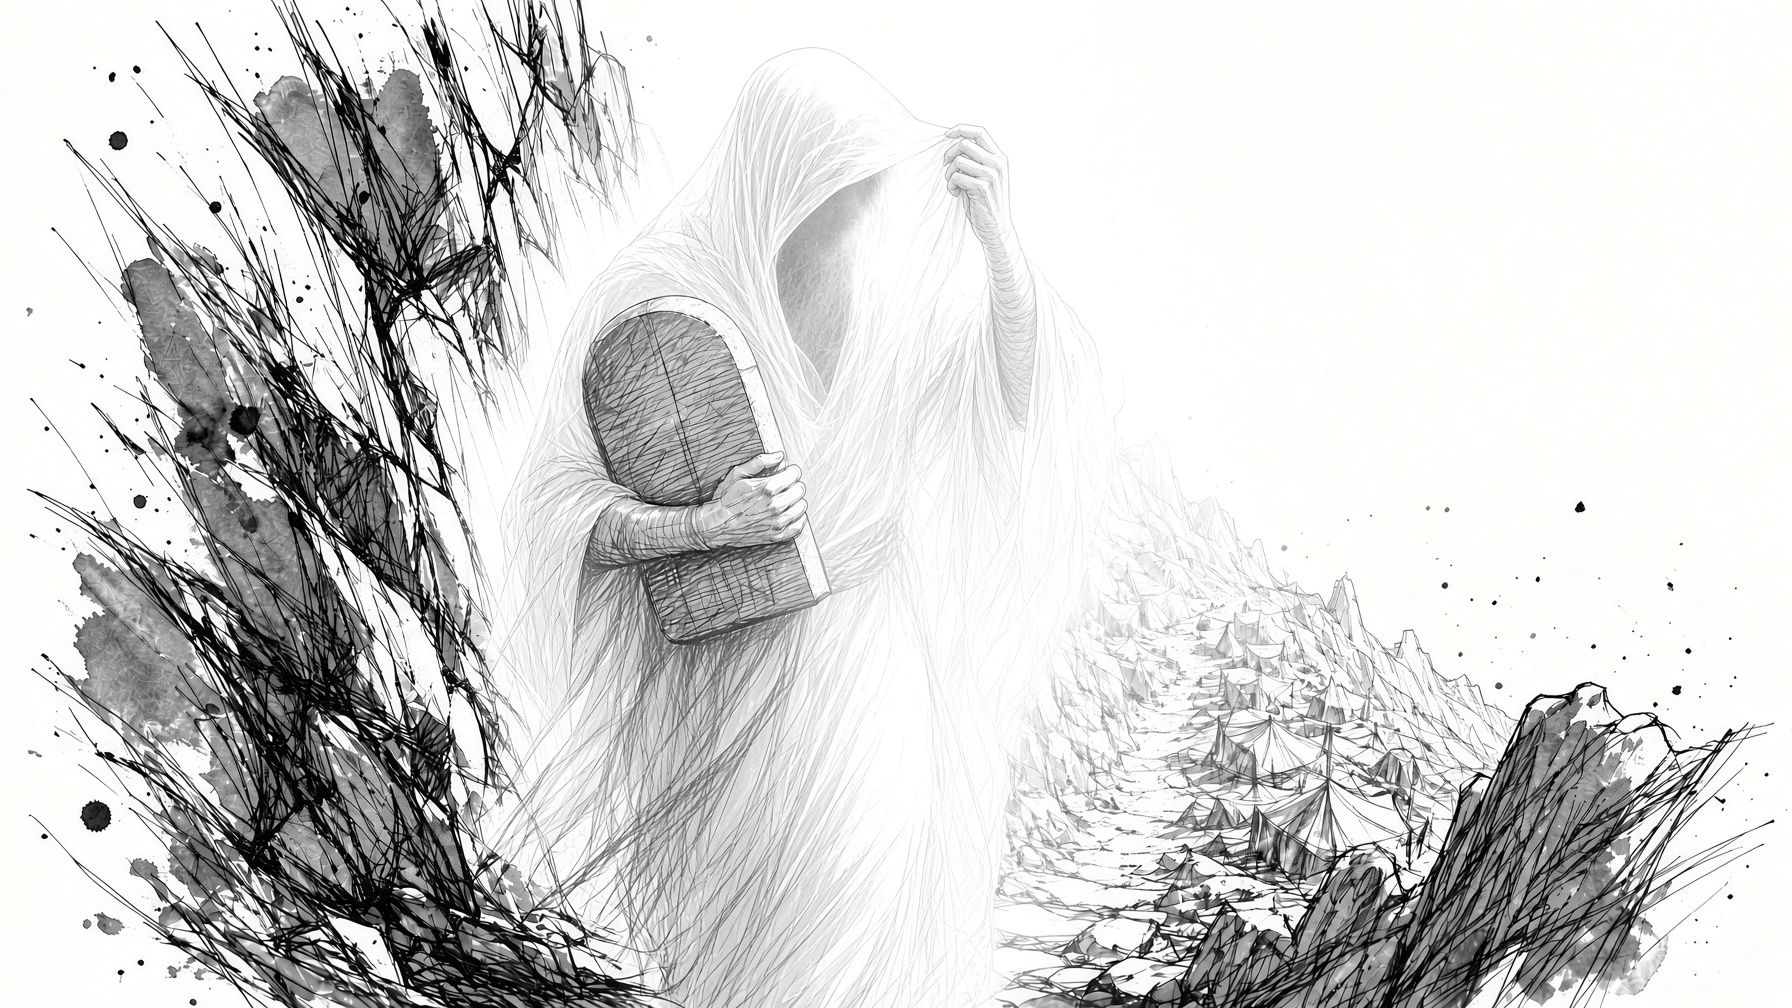
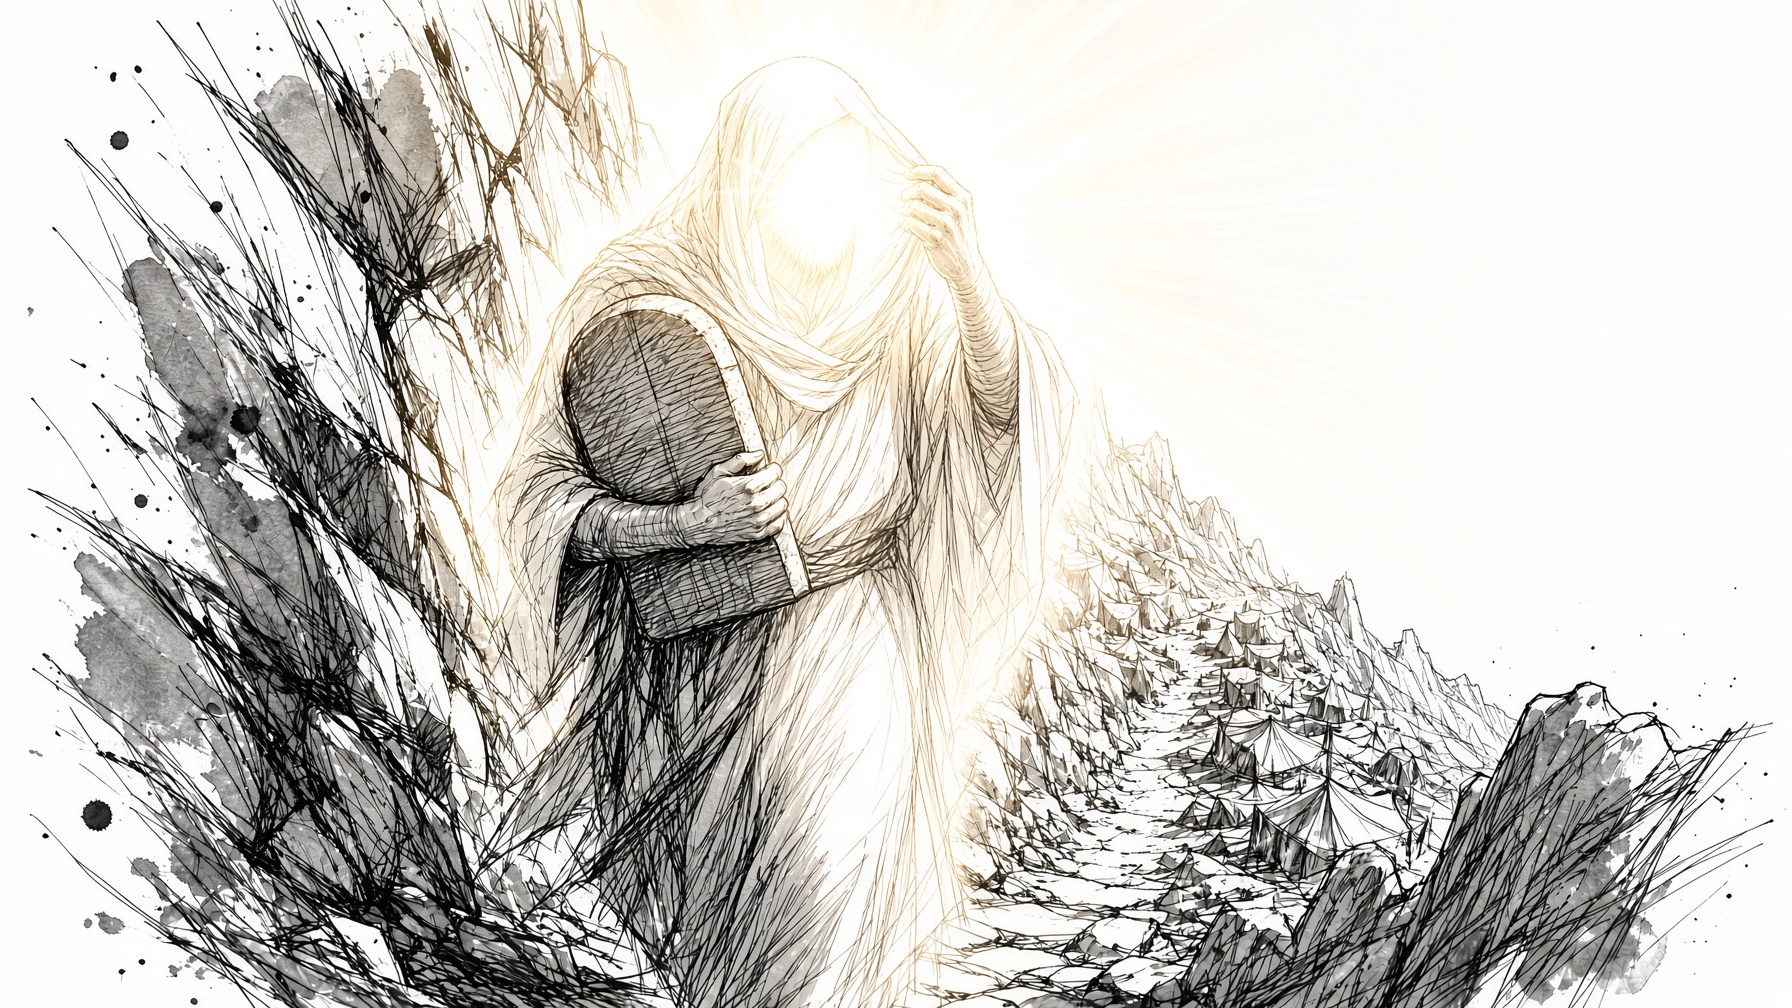
ART-202-06c: replace seq-1 with yellow-glow Moses frame
Dave sent a new first frame with a soft yellow glow on Moses' face.
Keep the same filename, sequence, and stops. Seq-2 is unchanged.

diff --git a/discipleship/scripts/lesson-image-assets.js b/discipleship/scripts/lesson-image-assets.js
@@ -423,7 +423,7 @@
     "images/202-06-moses-veil-seq-1.jpg": {
         "width": 1792,
         "height": 1008,
[2 lines of base64/hex data omitted]
         "variants": [
             {
                 "src": "images/optimized/202-06-moses-veil-seq-1-640.webp",

diff --git a/discipleship/project-management/TASKS.md b/discipleship/project-management/TASKS.md
@@ -356,7 +356,7 @@ Plan and standard: [reviews/2026-11-11-series-review.md](reviews/2026-11-11-seri
 | [x] | REWRITE-202-06 | DONE | Claude / claude/202-06-glory (PR #326) / 2026-11-19 | Dave 2026-11-19: publish now, widget later | Full rewrite: Moses "Show me your glory"; God's glory; why you were made (image, fall, pursued, saved to shine, Matthew 5:16); worship as response; magnify and "Missions exists because worship doesn't". Old questions retired; Paul and Silas art and mirror widget removed. Evidence: logs/2026-11-19-REWRITE-202-06-claude.md. |
 | [ ] | WIDGET-202-06-REFLECT | TODO | Gemini | Dave 2026-11-19 | Build widgets/reflect-glory-202.html from Claude's prompt: a mirror progression from seeking your own glory to reflecting God's (45-degree mirror; Matthew 5:16; Psalm 16:11). Claude wires it into 202-06 after Dave approves the look. |
 | [ ] | ART-202-06-MOSES | REVIEW | Grok / cursor/art-202-06c-moses-veil / 2026-11-19 | Dave 2026-11-19; superseded by ART-202-06c | Original brief (veiled then unveiled, 202-06-story-seq-1/2.jpg) is superseded. Dave approved a new two-frame Grok Imagine sequence: shining washed-out first, then veil down. Implemented as ART-202-06c. |
-| [ ] | ART-202-06c | REVIEW | Grok / cursor/art-202-06c-moses-veil / 2026-11-19 | Dave approved two Grok Imagine frames | Add a two-frame Moses veil scroll sequence after A Face That Shone (202-06-moses-veil-seq-1.jpg washed-out shining face, seq-2.jpg veil down). Sequence [seq-1, seq-1, seq-2], stops [0, 0.42, 0.8], touchNext true. Non-image lesson values/IDs unchanged. Foundation QA/export 212/storage 73/assets 144/images 1584/iframe 32 and local browser 79 pass, exit 0. One PR; stop at REVIEW. Dave's personal art approval remains pending. Evidence: logs/2026-11-19-ART-202-06c-grok.md. |
+| [ ] | ART-202-06c | REVIEW | Grok / cursor/art-202-06c-moses-veil / 2026-11-20 | Dave approved yellow-glow seq-1 | Two-frame Moses veil sequence after A Face That Shone. Seq-1 replaced 2026-11-20 with Dave's yellow-glow face (same filename, 1792x1008). Seq-2 veil-down unchanged. Sequence [seq-1, seq-1, seq-2], stops [0, 0.42, 0.8], touchNext true. Non-image lesson values/IDs unchanged. Foundation QA/export 212/storage 73/assets 144/images 1584/iframe 32 and local browser 79 pass, exit 0. PR #332; stop at REVIEW. Evidence: logs/2026-11-19-ART-202-06c-grok.md. |
 | [x] | UI-TITLE-FOCUS-RING | DONE | Claude / claude/title-focus-ring / 2026-11-16 | Dave's direction 2026-11-16 | Hide the keyboard focus outline on the lesson title (.session-title:focus { outline: none; }), matching the existing About heading rule. Focus still moves to the title on lesson change for screen readers; the title is tabindex -1, not a tab stop. index.html only. qa_foundation, export, storage, assets and 964 navigation checks pass. |
 | [x] | SIMPLIFY-101-04 | DONE | Claude / claude/101-04-simplify / 2026-11-16 | Dave's direction 2026-11-16 | 101-04: let the approved Read, Discover, Respond widget teach the Three Discovery Questions; remove the duplicate box and two paragraphs the widget repeats; one-line lead-in; tighter recap and share lines. 1,070 to 940 words. Widget file, placement between the section and Try It, Nicodemus, John 3 practice, questions and readings unchanged. Evidence: logs/2026-11-16-SIMPLIFY-101-04-claude.md. Dave approved 2026-11-16; 4.5 (4-6) retired and the share section removed at his instruction; 890 words; merged in PR #259. |
 | [x] | SUPPER-202-10 | DONE | Codex / codex/review-252 (PR #252) / 2026-11-16 | Dave approved full update at exact 169a7d5 (PR #252) | 202-10: keep the Baptism widget; remove the placeholder two-ordinances widget; Lord's Supper teaching stays on Christ's words of institution; approved pixel-locked bread-and-cup B&W/color dissolve pair (`images/202-10-bread-cup-bw.jpg` and `-color.jpg`, `1152x864`) committed, built, and wired after the Lord's Supper heading. All prose/Scripture/question objects and Baptism bytes unchanged. Main integrated; core QA and 112/112/128 browser checks pass. Preview/live evidence on PR #252. Evidence: logs/2026-11-16-SUPPER-202-10-codex.md and Claude handoff. |

diff --git a/discipleship/project-management/logs/2026-11-19-ART-202-06c-grok.md b/discipleship/project-management/logs/2026-11-19-ART-202-06c-grok.md
@@ -63,3 +63,26 @@ Changed files:
 Remaining work / next command: reviewer verifies the diff and hosted preview `#202-6`. Do not merge until Dave's visual review.
 
 Blocker and unblock action, if any: none.
+
+## Follow-up, 2026-11-20: yellow-glow seq-1
+
[1 lines of base64/hex data omitted]
+
[1 lines of base64/hex data omitted]
+- Optimizer rebuilt only seq-1 copies: `202-06-moses-veil-seq-1-640.webp` (64042 bytes), `202-06-moses-veil-seq-1-1280.webp` (227710 bytes)
+- `scripts/lesson-image-assets.js` regenerated by `build_lesson_images.js`
+
+Checks (from `discipleship/`), all exit 0:
+
+- `npm ci`: NPM_CI_EXIT:0
+- `node scripts/build_lesson_images.js`: BUILD_EXIT:0
+- `bash scripts/qa_foundation.sh`: QA_FOUNDATION_EXIT:0 (415 John, 144 assets, 32 iframe, 212 export, 1584 images)
+- `node scripts/test_lesson_export.js`: TEST_LESSON_EXPORT_EXIT:0 (212)
+- `node scripts/test_answer_storage.js`: TEST_ANSWER_STORAGE_EXIT:0 (73)
+- `node scripts/check_lesson_assets.js`: CHECK_LESSON_ASSETS_EXIT:0 (144)
+- `node scripts/test_lesson_assets.js`: TEST_LESSON_ASSETS_EXIT:0 (8)
+- `node scripts/test_widget_iframe.js`: TEST_WIDGET_IFRAME_EXIT:0 (32)
+- `node scripts/test_lesson_images.js`: TEST_LESSON_IMAGES_EXIT:0 (1584)
+- `node scripts/l202_06_story_image_browser_check.js`: L202_06_STORY_IMAGE_BROWSER_CHECK_EXIT:0 (79 at 375/390/1280 plus reduced motion; seq-1 holds at 0.42, last dissolve 0.498 at 0.61)
+
+No merge. Stop at REVIEW.

diff --git a/discipleship/project-management/HANDOFF.md b/discipleship/project-management/HANDOFF.md
@@ -1,6 +1,6 @@
 # Resume here
 
-ART-202-06c REVIEW, November 19: Dave approved two Grok Imagine frames for lesson 202-06. Wired as a three-stop sequence (`202-06-moses-veil-seq-1.jpg` listed twice, then `seq-2.jpg`, stops `[0, 0.42, 0.8]`) immediately after A Face That Shone. Seq-1 is the washed-out shining face; seq-2 lowers the veil so the mountain path and camp come into view. Non-image lesson values and saved-answer IDs unchanged. Stop at REVIEW. Evidence: [task log](logs/2026-11-19-ART-202-06c-grok.md).
+ART-202-06c REVIEW, November 20: Dave replaced seq-1 with a yellow-glow face on Moses holding the tablets. Same filename, sequence `[seq-1, seq-1, seq-2]`, stops `[0, 0.42, 0.8]`. Seq-2 (veil down) unchanged. Scroll starts on the yellow frame and dissolves to the veiled one. Non-image lesson values and saved-answer IDs unchanged. PR #332; stop at REVIEW. Evidence: [task log](logs/2026-11-19-ART-202-06c-grok.md).
 
 203-10 voice-session handoff saved, November19: [Approved copy and Gemini widget prompt](reviews/2026-11-19-203-10-update-handoff.md). Dave requested this single repo note for Claude/Gemini: Father's-love bookend, three concrete growth examples, inviting someone through Growing Together, Romans12 shared-table widget concept, and opened-eyes bridge. Documentation only; lesson/widget edits are not yet implemented or published by this packet.
 
